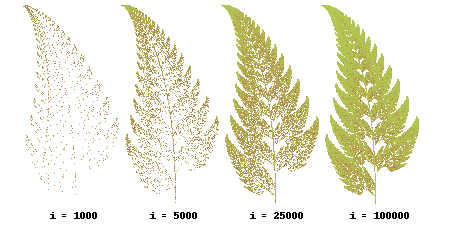
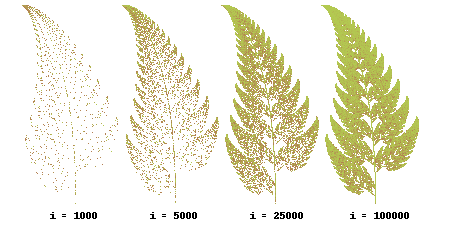
Add setup.py, extend README.md

diff --git a/fractalia/__main__.py b/fractalia/__main__.py
@@ -1,17 +1,15 @@
+# pylint: disable=import-outside-toplevel
 import argparse
 from os import makedirs
 import random
 import sys
 
-from tqdm import trange
-
-from .drawing import drawing
-
-from .app import App
-
 
 def main():
-    parser = argparse.ArgumentParser(description="Draw art with fractale")
+    parser = argparse.ArgumentParser(
+        description=("Tkinter application for generate landscapes "
+                     "composed of fractals.")
+    )
     parser.add_argument("-s", "--seed", type=int,
                         help="Seed for random generator")
     parser.add_argument("-n", "--number", type=int,
@@ -23,9 +21,14 @@ def main():
     print("Seed:", seed)
 
     if args.number is None:
+        from .app import App
+
         app = App()
         app.mainloop()
     else:
+        from tqdm import trange
+        from .drawing import drawing
+
         makedirs("out", exist_ok=True)
         for _ in trange(abs(args.number)):
             img = drawing()

diff --git a/fractalia/drawing.py b/fractalia/drawing.py
@@ -1,5 +1,4 @@
 import random
-import numpy as np
 import math
 from PIL import Image, ImageDraw
 
@@ -87,9 +86,10 @@ def gradient_fill(im, start_color, end_color):
 
             # reduce distance travelled to a percentage of the total image size
             dist = dist / (im.size[0] + im.size[1])
-            # run through the rgb object and calculate relative distances between start+end
-            it1 = map(lambda start: start*(1-dist), start_color)
-            it2 = map(lambda end: end*dist, end_color)
+            # run through the rgb object
+            # and calculate relative distances between start+end
+            it1 = map(lambda start: start*(1 - dist), start_color)
+            it2 = map(lambda end: end * dist, end_color)
             r, g, b = map(lambda start, end: start+end, it1, it2)
             pixel_data[x, y] = int(r), int(g), int(b)
     return im

diff --git a/docs/exemple.py b/docs/exemple.py
@@ -1,0 +1,22 @@
+from PIL import ImageDraw, Image
+from fractalia import TreeDraw, BarnsleyDraw
+
+
+img = Image.new("RGBA", (650, 200), (255, 255, 255, 0))
+draw_img = ImageDraw.Draw(img)
+for i in range(5):
+    TreeDraw(i * 125 + 50, 170, i + 1, width=2).draw(draw_img)
+    draw_img.text((i * 125 + 36, 175), f"i = {i}", (0, ) * 3)
+img.save("docs/tree.png")
+
+img = Image.new("RGBA", (450, 225), (255, 255, 255, 0))
+draw_img = ImageDraw.Draw(img)
+BarnsleyDraw(75, 205, 2.0, 1000).draw(draw_img)
+draw_img.text((50, 210), "i = 1000", (0,) * 3)
+BarnsleyDraw(175, 205, 2.0, 5000).draw(draw_img)
+draw_img.text((150, 210), "i = 5000", (0,) * 3)
+BarnsleyDraw(275, 205, 2.0, 25000).draw(draw_img)
+draw_img.text((250, 210), "i = 25000", (0,) * 3)
+BarnsleyDraw(375, 205, 2.0, 100000).draw(draw_img)
+draw_img.text((350, 210), "i = 100000", (0,) * 3)
+img.save("docs/barnsley.png")

diff --git a/setup.py b/setup.py
@@ -1,0 +1,28 @@
+from sys import stderr
+from setuptools import setup, find_packages
+
+
+def read(path: str) -> str:
+    try:
+        with open(path, "r", encoding="utf8") as f:
+            return f.read().strip()
+    except FileNotFoundError:
+        print(f"warning: No {path!r} found", file=stderr)
+        return ""
+
+
+REQUIREMENTS = [i.strip() for i in read("requirements.txt").split('\n')]
+
+setup(
+    name='fractalia',
+    version="1.0.0",
+    author="***REMOVED*** ***REMOVED*** - William MADIE",
+    author_email='***REMOVED***',
+    url='https://github.com/Dashstrom/Fractalia',
+    license=read("LICENSE"),
+    packages=find_packages(exclude=('tests', 'docs')),
+    long_description=read("README.md"),
+    install_requires=REQUIREMENTS,
+    description=('Tkinter application for generate landscapes '
+                 'composed of fractals.')
+)

diff --git a/fractalia/app.py b/fractalia/app.py
@@ -2,7 +2,7 @@ import sys
 import random
 import tkinter as tk
 
-from PIL import Image, ImageDraw, ImageTk
+from PIL import ImageDraw, ImageTk
 from .drawing import gen_new_gradient_bg
 from .drawing import drawing
 
@@ -18,7 +18,6 @@ class App(tk.Tk):
         self.can.pack()
         self.btn = tk.Button(self, text="Relancer", command=self.redraw)
         self.btn.pack(side=tk.BOTTOM)
-        #self.img = Image.new("RGB", (800, 600), (114, 155, 242))
         self.img = gen_new_gradient_bg()
         self._draw_img = ImageDraw.Draw(self.img)
         self._tk_img = None

diff --git a/fractalia/__init__.py b/fractalia/__init__.py
@@ -1,0 +1,23 @@
+from .core import (
+    RecursiveDraw,
+    TreeDraw,
+    BarnsleyDraw,
+    JuliaDraw,
+    MountainsDraw,
+    SORBUS,
+    INDOCHINE,
+    CINNAMON,
+    NERO,
+    ORANGES,
+    CELERY,
+    SUNDANCE,
+    DRIFTWOOD,
+    BROWN
+)
+from .drawing import (
+    randpop,
+    randsign,
+    drawing,
+    gradient_fill,
+    gen_new_gradient_bg
+)

diff --git a/README.md b/README.md
@@ -1,6 +1,54 @@
 # Fractalia
-A Draw with fractale only
+Tkinter application for generate landscapes composed of fractals.
 
-## Fougère de Barnsley
 
-## Arbre Fractale
+## Fractal used
+- Barnsley fern
+- Fractal Tree
+- Julia
+- Diamond-square algorithm
+
+# Install
+```
+git clone https://github.com/Dashstrom/Fractalia.git
+pip install .
+python3 -m fractalia
+```
+## Remove
+```
+pip uninstall fractalia
+```
+
+## Commands
+
+```
+usage: python3 -m fractalia [-h] [-s SEED] [-n NUMBER]
+
+Tkinter application for generate landscapes composed of fractals.
+
+options:
+  -h, --help            show this help message and exit
+  -s SEED, --seed SEED  Seed for random generator
+  -n NUMBER, --number NUMBER
+                        Generate N images in directory named 'out'
+```
+
+## Examples$
+### Commande line
+- `python3 -m fractalia` : Open an Tkinter App
+- `python3 -m fractalia -s 42` : Open Tkinter App with seed 78
+- `python3 -m fractalia -n 7` : Generate 7 images
+
+### As import
+```python
+from fractalia import drawing
+
+img = drawing()
+img.show()
+```
+# Results
+
+![Landscape of seed 461170130558899640](https://raw.githubusercontent.com/Dashstrom/Fractalia/main/docs/exemples/461170130558899640.png "461170130558899640")
+![Landscape of seed 2350265372157330445](https://raw.githubusercontent.com/Dashstrom/Fractalia/main/docs/exemples/2350265372157330445.png "2350265372157330445")
+![Landscape of seed 4402446516260078720](https://raw.githubusercontent.com/Dashstrom/Fractalia/main/docs/exemples/4402446516260078720.png "4402446516260078720")
+![Landscape of seed 6123730475364912831](https://raw.githubusercontent.com/Dashstrom/Fractalia/main/docs/exemples/6123730475364912831.png "6123730475364912831")
